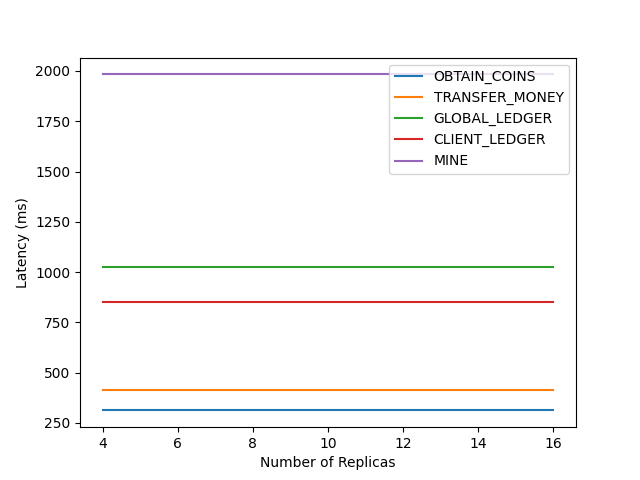
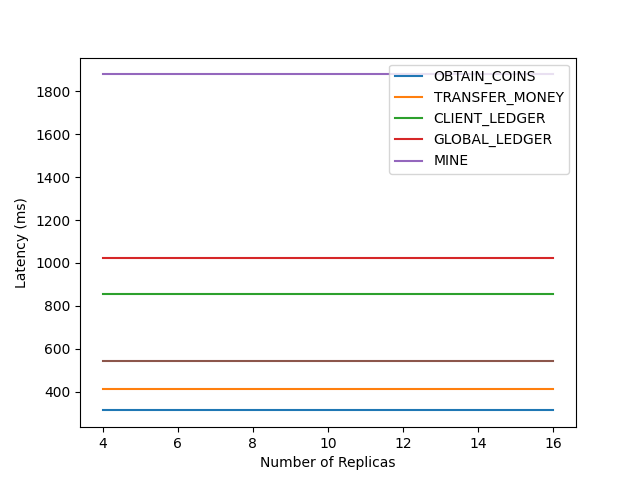
mining metrics and throughput metrics

diff --git a/Experimental_Evaluation/Plots/plots.py b/Experimental_Evaluation/Plots/plots.py
@@ -8,51 +8,95 @@ CLIENT_LEDGER = 'CLIENT_LEDGER_RESULTS'
 GLOBAL_LEDGER = 'GLOBAL_LEDGER_RESULTS'
 MINE = 'MINE_RESULTS'
 TRANSFER_MONEY_WITH_PRIVACY = 'TRANSFER_MONEY_WITH_PRIVACY_RESULTS'
+MINING_FULL_OPERATION = 'MINING_FULL_OPERATION_RESULTS'
+MINING_PROOF_OF_WORK = 'MINING_PROOF_OF_WORK_RESULTS'
 
 
 # OBTAIN_USER_NOT_SUBMITTED_TRANSACTIONS = 'OBTAIN_USER_NOT_SUBMITTED_TRANSACTIONS_RESULTS'
 
 
 def extract_values(dir_results):
-    results_replica = []
+    results_x_y_latency = []
+    results_x_y_throughput = []
+    res = []
     for directory in os.listdir(dir_results):
         subdir = os.path.join(dir_results, directory)
-        replica = float(directory.split('_')[1])
-        sum_results = 0
-        size = 0
+        x_variable = float(directory.split('_')[1])
+        total_time = 0
+        num_ops = 0
         for root, dir, files in os.walk(subdir):
             for file in files:
                 file_dir = os.path.join(subdir, file)
                 times = np.array(np.genfromtxt(file_dir, delimiter='\t', dtype='str')[:, 1]).astype(float)
-                sum_results = sum_results + np.sum(times)
-                size = size + len(times)
-        avg = float(sum_results / size)
-        results_replica.append([replica, avg])
-    res = np.array(results_replica)
-    res.sort(axis=0)
-    return res
+                total_time = total_time + np.sum(times)
+                num_ops = num_ops + len(times)
+        avg = float(total_time) / float(num_ops)
+        throughput = float(num_ops)/float(total_time)
+        results_x_y_latency.append([x_variable, avg])
+        results_x_y_throughput.append(([x_variable, throughput]))
+        #print([x_variable, avg, total_time, throughput])
+
+    res_latency = np.array(results_x_y_latency)
+    res_latency = res_latency[res_latency[:, 0].argsort()]
+    res_throughput = np.array(results_x_y_throughput)
+    res_throughput = res_throughput[res_throughput[:, 0].argsort()]
+
+    return res_latency, res_throughput
 
 
-def ops_latency_per_num_replicas():
-
-    obtain_coins = extract_values(OBTAIN_COINS)
-    transfer_money = extract_values(TRANSFER_MONEY)
-    client_ledger = extract_values(GLOBAL_LEDGER)
-    global_ledger = extract_values(CLIENT_LEDGER)
-    mine = extract_values(MINE)
-    transfer_money_with_privacy = extract_values(TRANSFER_MONEY_WITH_PRIVACY)
-    # obtain_user_not_submitted_transactions = extract_values(OBTAIN_USER_NOT_SUBMITTED_TRANSACTIONS)
+def ops_latency_throughput_per_num_replicas():
+    obtain_coins_latency, obtain_coins_throughput = extract_values(OBTAIN_COINS)
+    transfer_money_latency, transfer_money_throughput = extract_values(TRANSFER_MONEY)
+    client_ledger_latency, client_ledger_throughput = extract_values(CLIENT_LEDGER)
+    global_ledger_latency, global_ledger_throughput = extract_values(GLOBAL_LEDGER)
+    mine_latency, mine_throughput = extract_values(MINE)
+    transfer_money_with_privacy_latency, transfer_money_with_privacy_throughput = extract_values(
+        TRANSFER_MONEY_WITH_PRIVACY)
     plt.xlabel("Number of Replicas")
     plt.ylabel("Latency (ms)")
-    plt.plot(obtain_coins[:, 0], obtain_coins[:, 1])
-    plt.plot(transfer_money[:, 0], transfer_money[:, 1])
-    plt.plot(client_ledger[:, 0], client_ledger[:, 1])
-    plt.plot(global_ledger[:, 0], global_ledger[:, 1])
-    plt.plot(mine[:, 0], mine[:, 1])
-    plt.legend(["OBTAIN_COINS", "TRANSFER_MONEY", "GLOBAL_LEDGER", "CLIENT_LEDGER", "MINE"])
+    plt.plot(obtain_coins_latency[:, 0], obtain_coins_latency[:, 1])
+    plt.plot(transfer_money_latency[:, 0], transfer_money_latency[:, 1])
+    plt.plot(client_ledger_latency[:, 0], client_ledger_latency[:, 1])
+    plt.plot(global_ledger_latency[:, 0], global_ledger_latency[:, 1])
+    plt.plot(mine_latency[:, 0], mine_latency[:, 1])
+    plt.plot(transfer_money_with_privacy_latency[:, 0], transfer_money_with_privacy_latency[:, 1])
+    plt.legend(["OBTAIN_COINS", "TRANSFER_MONEY", "CLIENT_LEDGER", "GLOBAL_LEDGER", "MINE"])
     plt.savefig('ops_latency_num_replicas.png')
-    # plt.plot(obtain_user_not_submitted_transactions[:, 0], obtain_user_not_submitted_transactions[:, 1])
+    plt.show()
+
+    plt.xlabel("Number of Replicas")
+    plt.ylabel("Throughput (ms)")
+    plt.plot(obtain_coins_throughput[:, 0], obtain_coins_throughput[:, 1])
+    plt.plot(transfer_money_throughput[:, 0], transfer_money_throughput[:, 1])
+    plt.plot(client_ledger_throughput[:, 0], client_ledger_throughput[:, 1])
+    plt.plot(global_ledger_throughput[:, 0], global_ledger_throughput[:, 1])
+    plt.plot(mine_throughput[:, 0], mine_throughput[:, 1])
+    plt.plot(transfer_money_with_privacy_throughput[:, 0], transfer_money_with_privacy_throughput[:, 1])
+    plt.legend(["OBTAIN_COINS", "TRANSFER_MONEY", "CLIENT_LEDGER", "GLOBAL_LEDGER", "MINE"])
+    plt.savefig('ops_throughput_num_replicas.png')
     plt.show()
 
 
-ops_latency_per_num_replicas()
+def mining_latency_throughput_plt():  # varying number of transactions in block and analysing mining time and full operation time
+    mining_proof_of_work_latency, mining_proof_of_work_throughput = extract_values(MINING_PROOF_OF_WORK)
+    mining_full_operation_latency, mining_full_operation_throughput, = extract_values(MINING_FULL_OPERATION)
+    plt.xlabel("Size of block")
+    plt.ylabel("Latency (ms)")
+    plt.plot(mining_proof_of_work_latency[:, 0], mining_proof_of_work_latency[:, 1])
+    plt.plot(mining_full_operation_latency[:, 0], mining_full_operation_latency[:, 1])
+    plt.legend(["mining_proof_of_work_latency", "mining_full_operation_latency"])
+    plt.savefig('mining_latency_per_block_size.png')
+    plt.show()
+
+    plt.xlabel("Size of block")
+    plt.ylabel("Throughput (ops/s)")
+    plt.plot(mining_proof_of_work_throughput[:, 0], mining_proof_of_work_throughput[:, 1])
+    plt.plot(mining_full_operation_throughput[:, 0], mining_full_operation_throughput[:, 1])
+    plt.legend(["mining_proof_of_work_throughput", "mining_full_operation_throughput"])
+    plt.savefig('mining_throughput_per_block_size.png')
+    #plt.plot(obtain_user_not_submitted_transactions[:, 0], obtain_user_not_submitted_transactions[:, 1])
+    plt.show()
+
+
+#ops_latency_throughput_per_num_replicas()
+mining_latency_throughput_plt()
